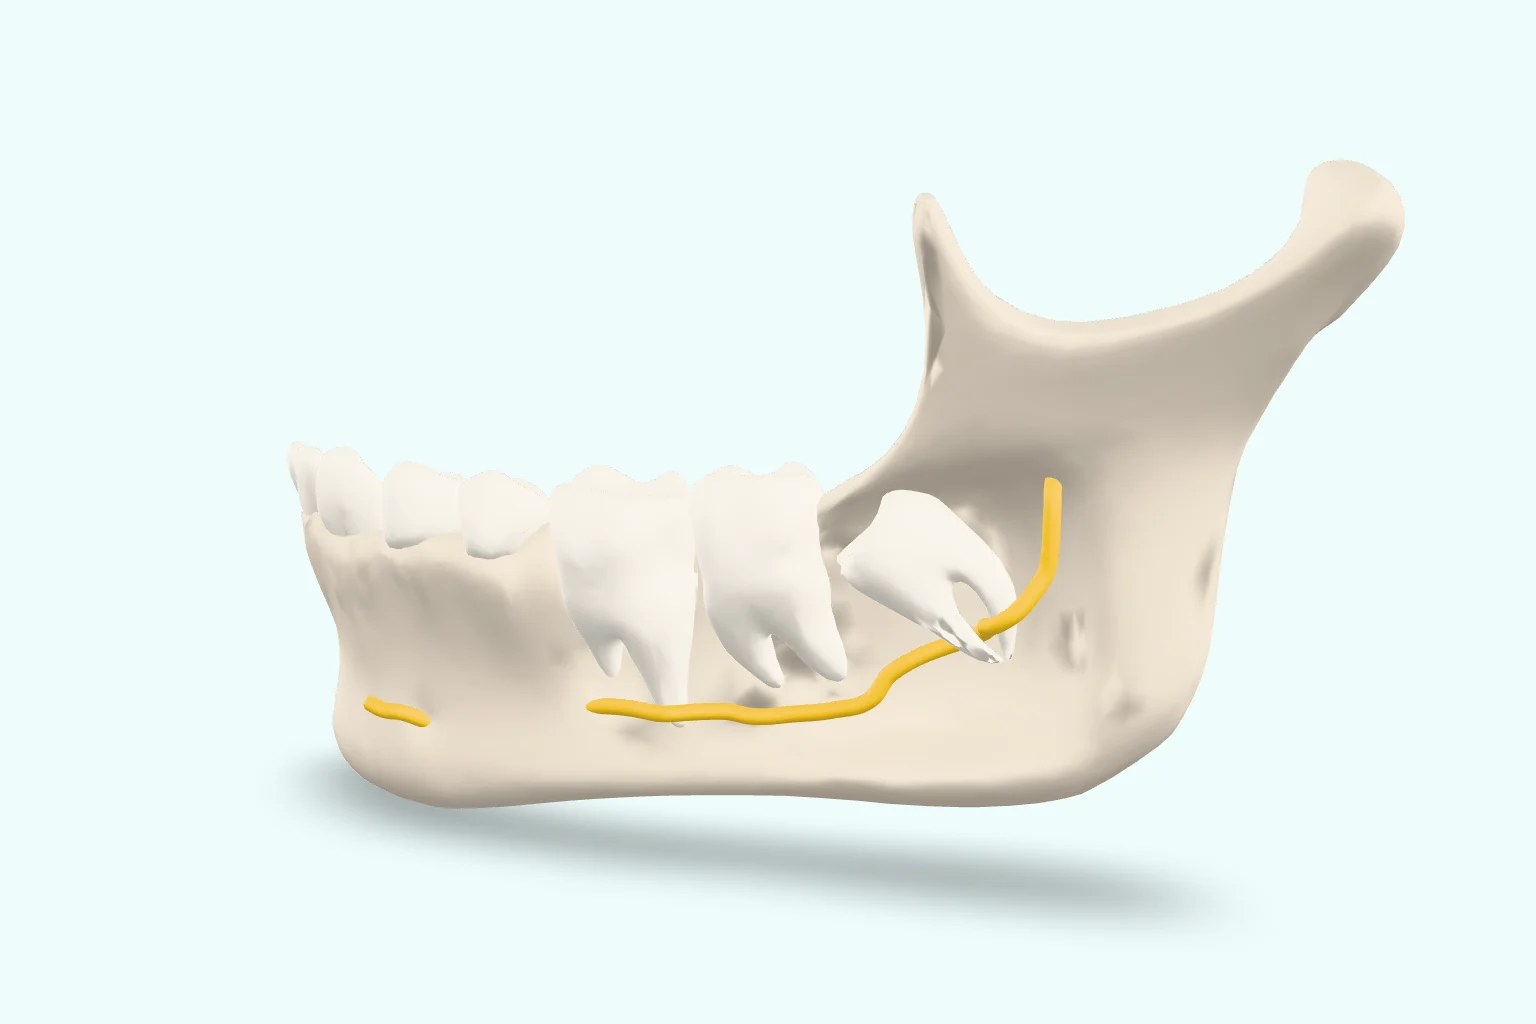
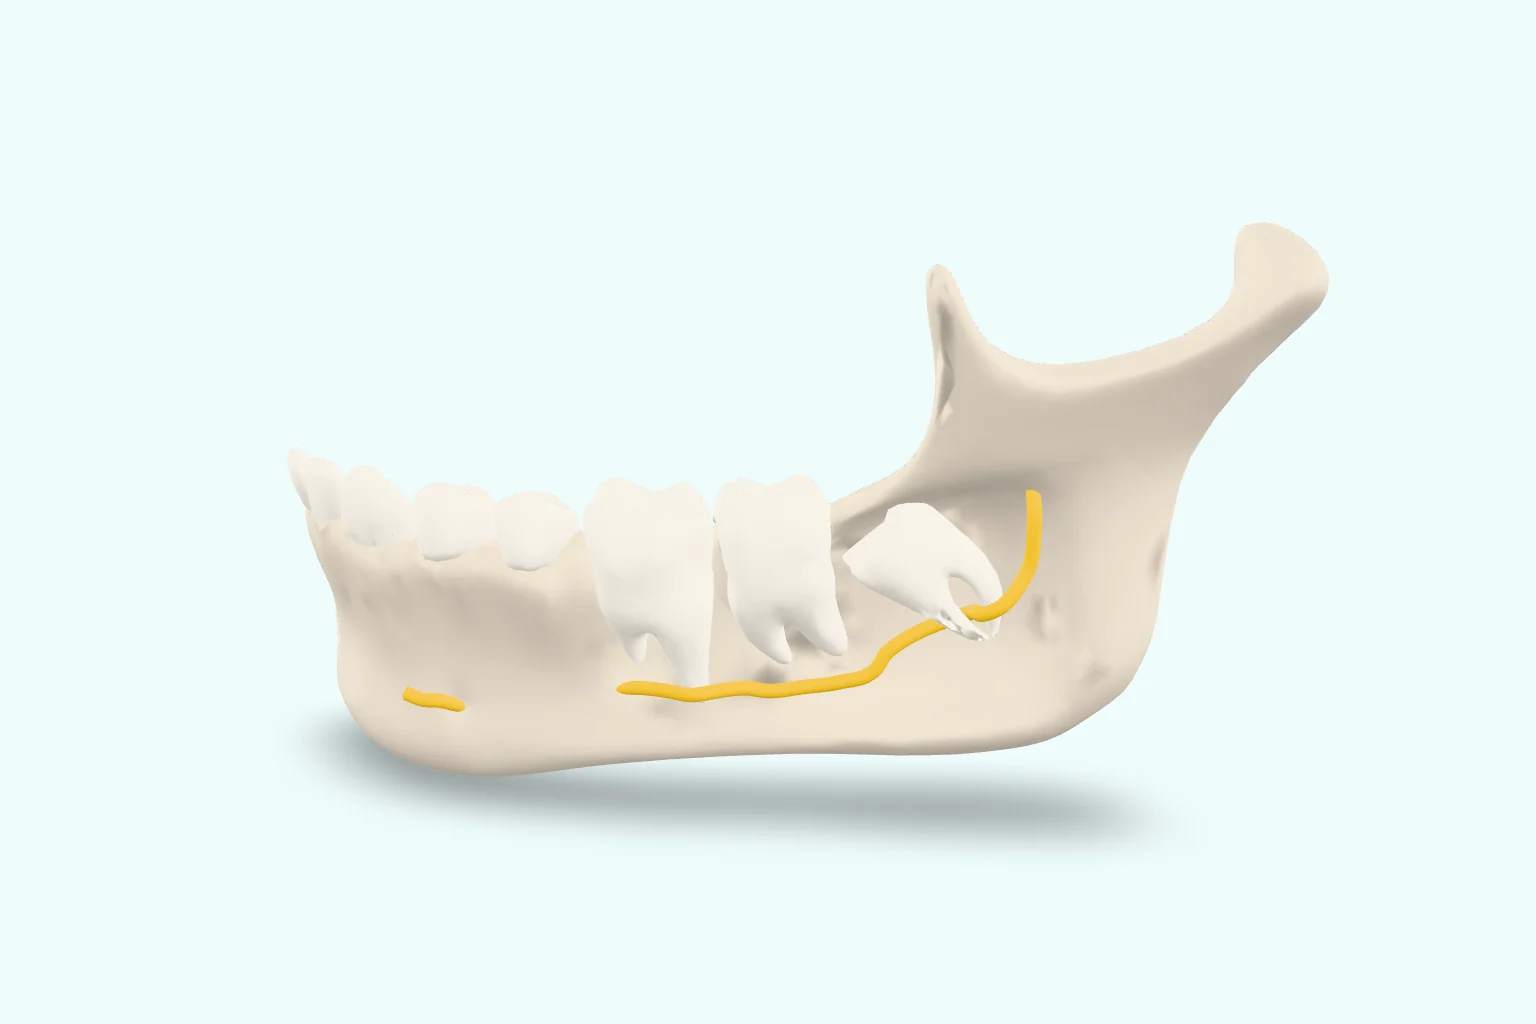
Homepage hero: re-render wisdom tooth at a smoother angle with softer highlights
Camera moved to 78deg/72deg (slightly from above and in front) and a matte
finish used for the render only, so the bone shows fewer dark blotches and
stray highlights. Colours unchanged (white teeth, yellow nerve). Render
script added under tools/wisdom-tooth/hero.

Claude-Session: https://claude.ai/code/session_01UV5FR1gChT3mMXVDGzXmgN

Changed region(s): [[0.1875, 0.1562, 0.9375, 0.9062], [0.1875, 0.4688, 0.3438, 0.5938]]

diff --git a/tools/wisdom-tooth/hero/index.html b/tools/wisdom-tooth/hero/index.html
@@ -1,0 +1,10 @@
+<!doctype html><html><head><style>html,body{margin:0;background:#EEFCFC}model-viewer{width:1536px;height:1024px;--poster-color:transparent}model-viewer::part(default-progress-bar){display:none}</style>
+<script src="model-viewer-umd.js"></script></head><body>
+<model-viewer id="m" src="impacted-molar.glb" interaction-prompt="none"></model-viewer>
+<script>
+const q=new URLSearchParams(location.search), m=document.getElementById('m');
+for (const k of ['camera-orbit','camera-target','field-of-view','environment-image','exposure','shadow-intensity','shadow-softness','tone-mapping']) if(q.get(k)) m.setAttribute(k,q.get(k));
+m.addEventListener('load',async()=>{
+  const rough=q.get('rough'); if(rough) for(const mat of m.model.materials) mat.pbrMetallicRoughness.setRoughnessFactor(+rough);
+  await new Promise(r=>setTimeout(r,1500)); document.title='ready';});
+</script></body></html>

diff --git a/tools/wisdom-tooth/hero/README.md b/tools/wisdom-tooth/hero/README.md
@@ -1,0 +1,11 @@
+# Homepage hero render
+
+Renders `public/assets/renders/wisdom-tooth-hero.webp` from `public/models/impacted-molar.glb` with model-viewer in headless Chromium.
+
+```
+pnpm install   # CHROMIUM_PATH optional: set it if Playwright cannot find its own browser
+CHROMIUM_PATH=/path/to/chromium node tools/wisdom-tooth/hero/render.cjs '[["hero","camera-orbit=78deg 72deg 85%&shadow-intensity=0.8&shadow-softness=1&rough=0.9"]]'
+python3 -c "from PIL import Image; Image.open('hero.png').convert('RGB').save('public/assets/renders/wisdom-tooth-hero.webp','WEBP',quality=86,method=6)"
+```
+
+The angle (78deg, slightly from above and in front) and matte finish (roughness 0.9, render only; the GLB keeps 0.7) keep the bone surface smooth with fewer stray highlights. Colours come from the GLB unchanged.
